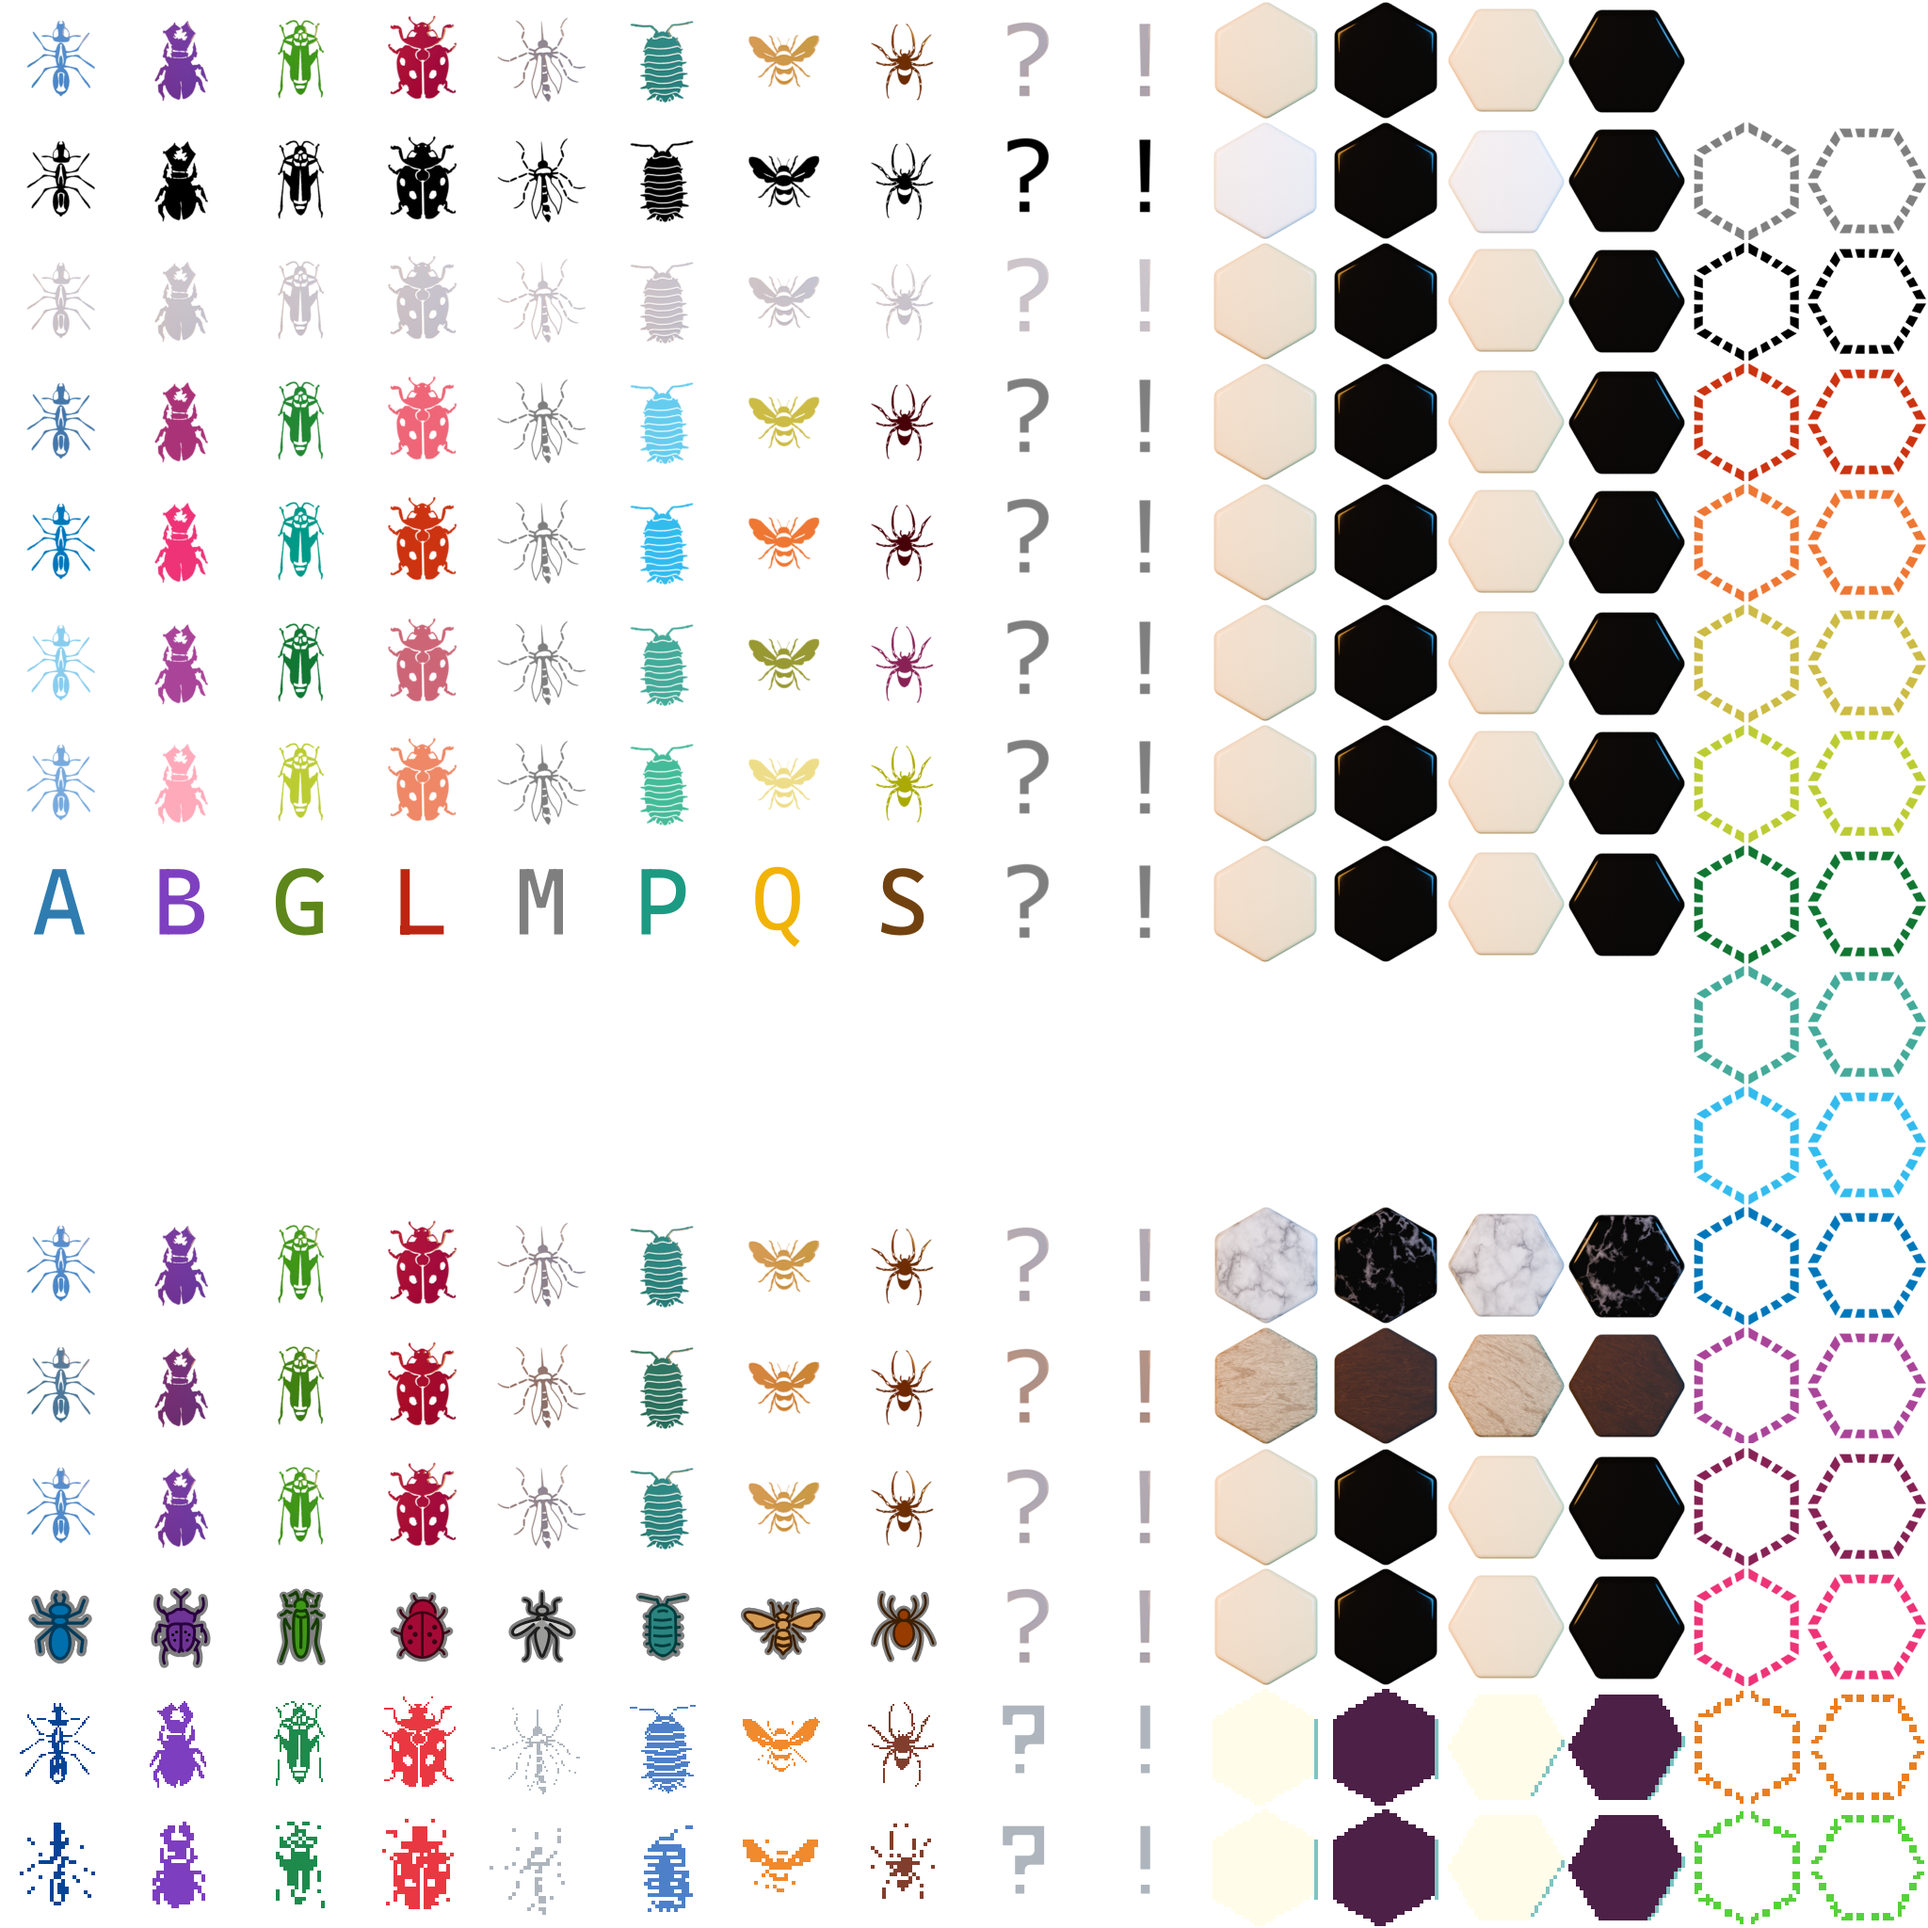
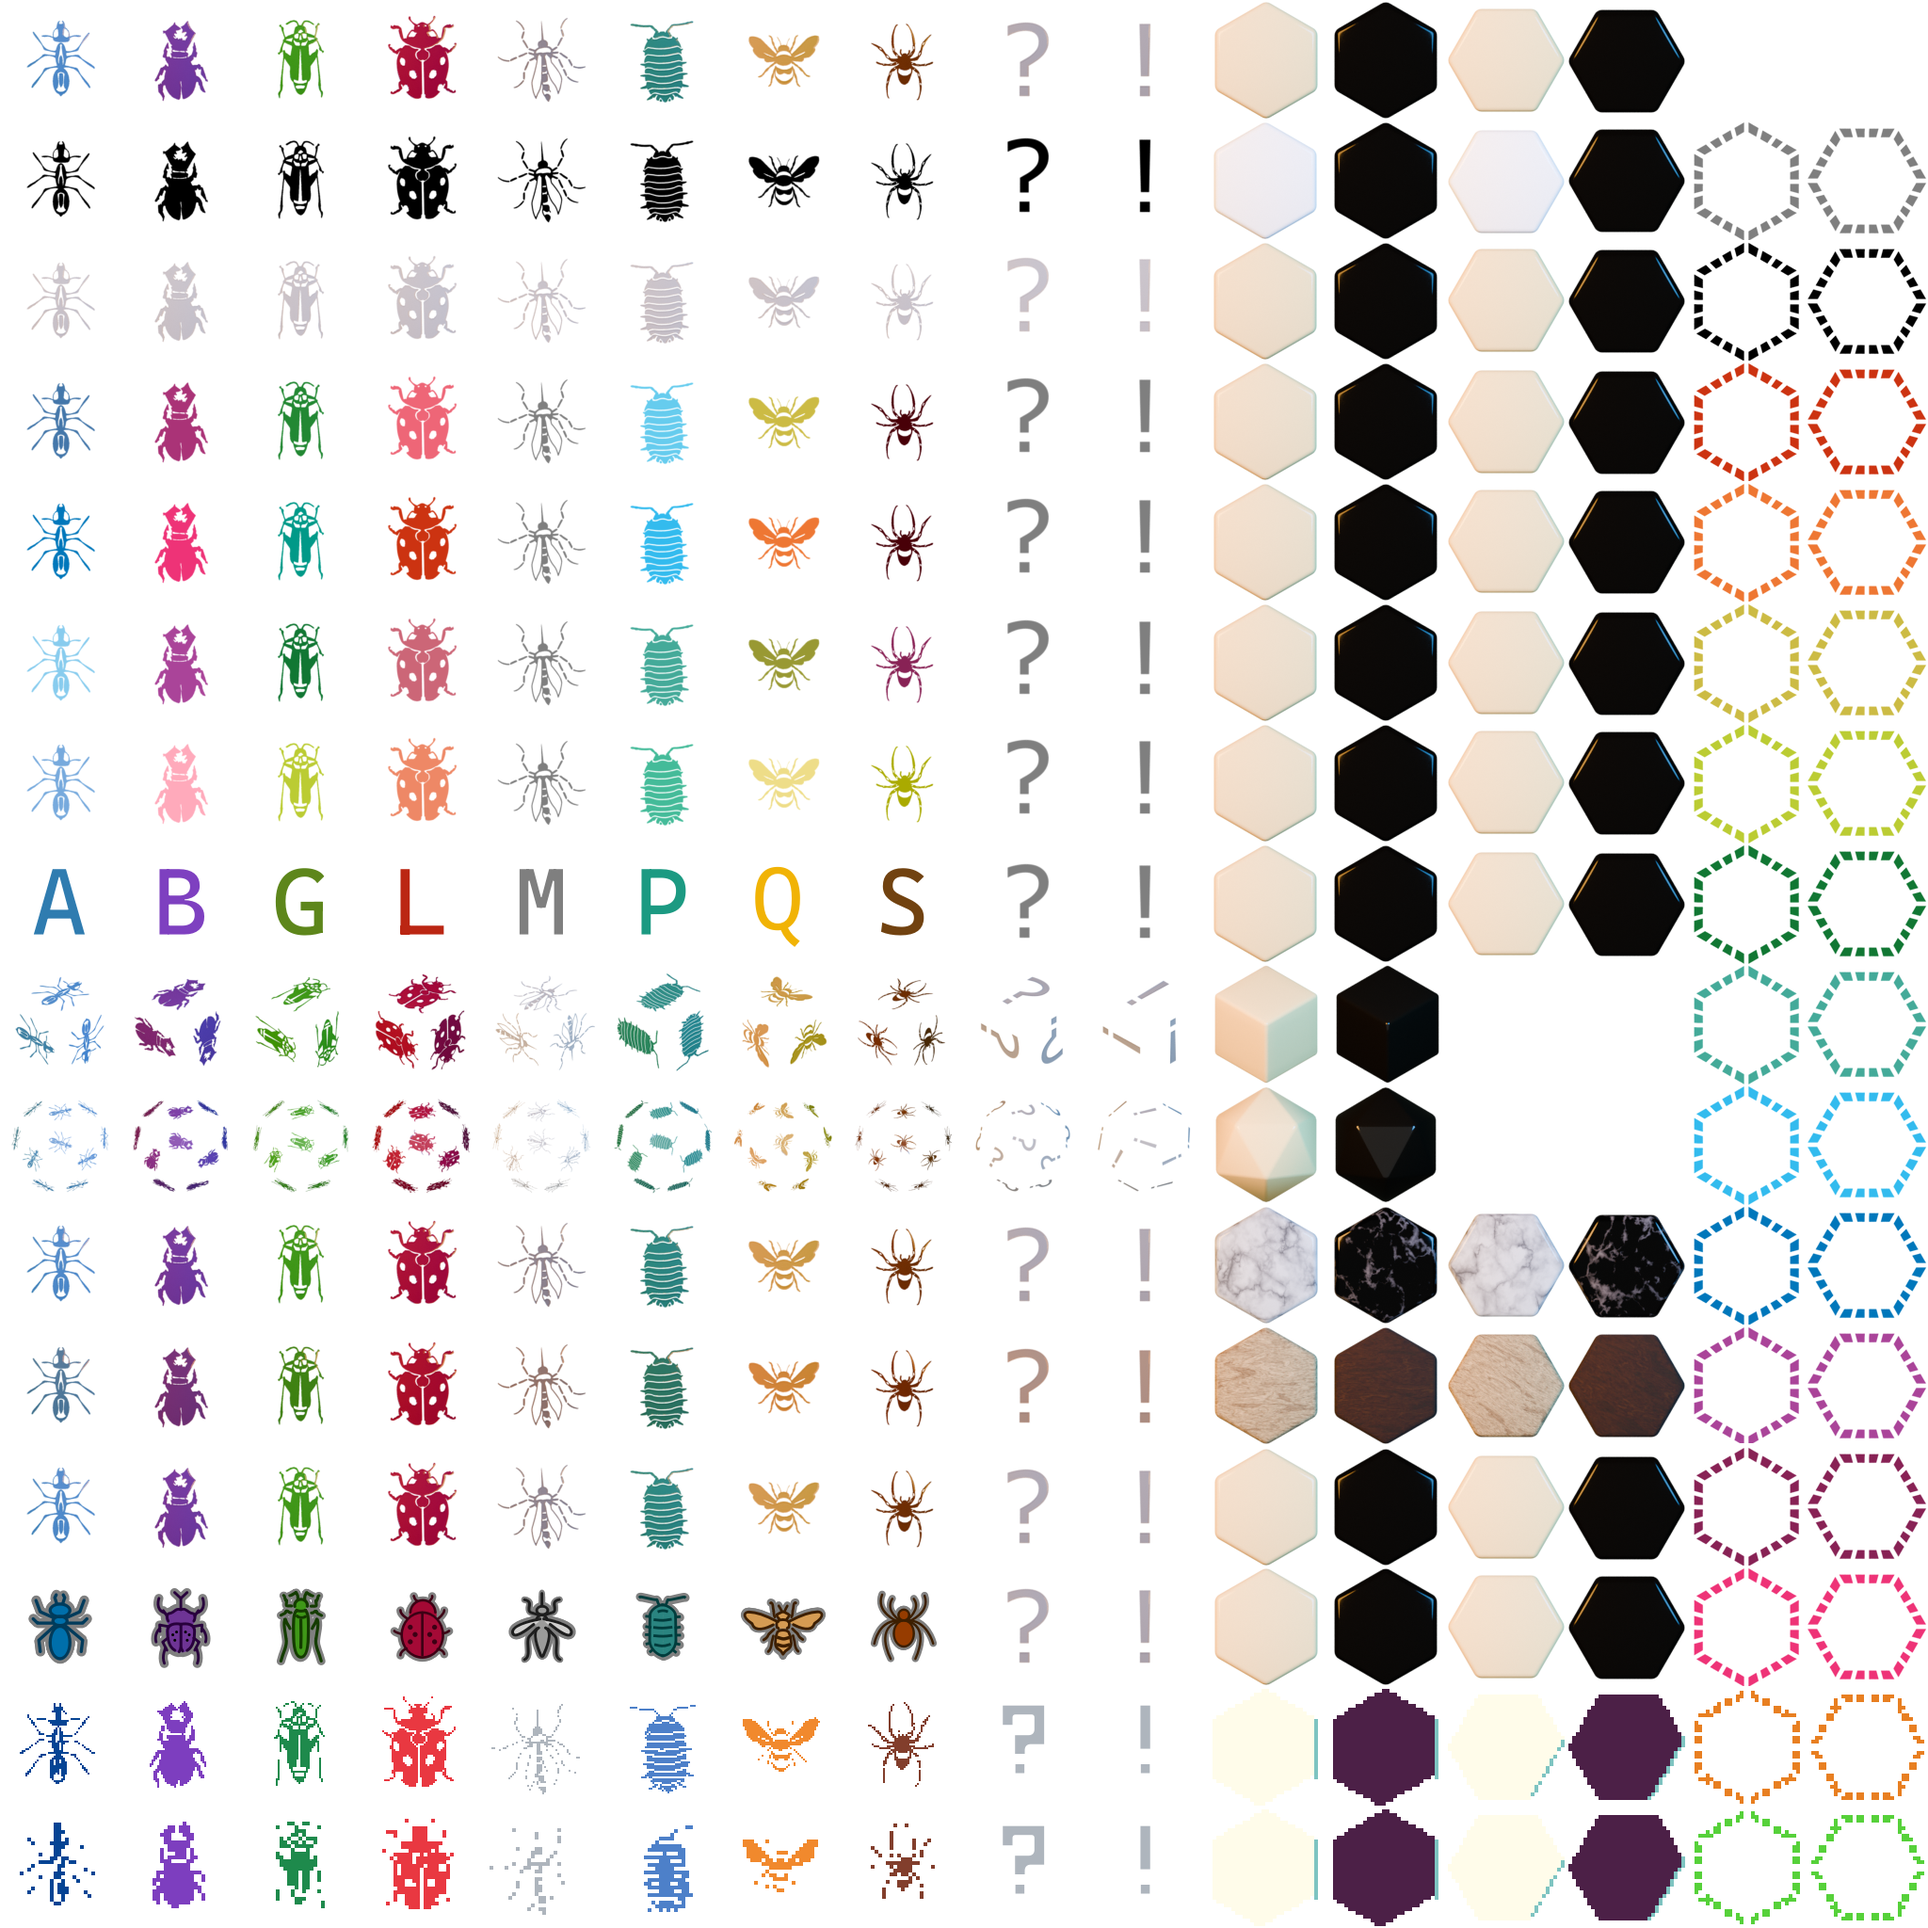
cubes and icosahedron palettes added

Changed region(s): [[0.0, 0.5, 0.2812, 0.625], [0.625, 0.5, 0.75, 0.625], [0.3125, 0.5, 0.5, 0.625]]

diff --git a/index.html b/index.html
@@ -238,8 +238,8 @@
 							<option value="5">muted</option>
 							<option value="6">light</option>
 							<option value="7">text</option>
-							<!--option value="8">c</option-->
-							<!--option value="9">i</option-->
+							<option value="8">cube</option>
+							<option value="9">icosahedron</option>
 							<option value="10">marble</option>
 							<option value="11">wood</option>
 							<!--option value="12">?</option-->
